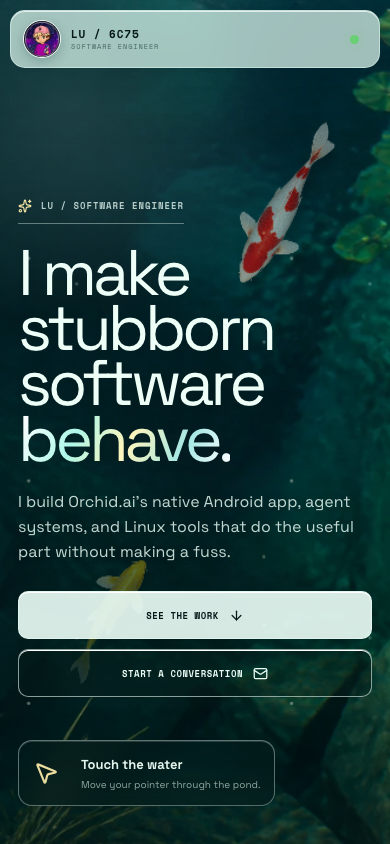
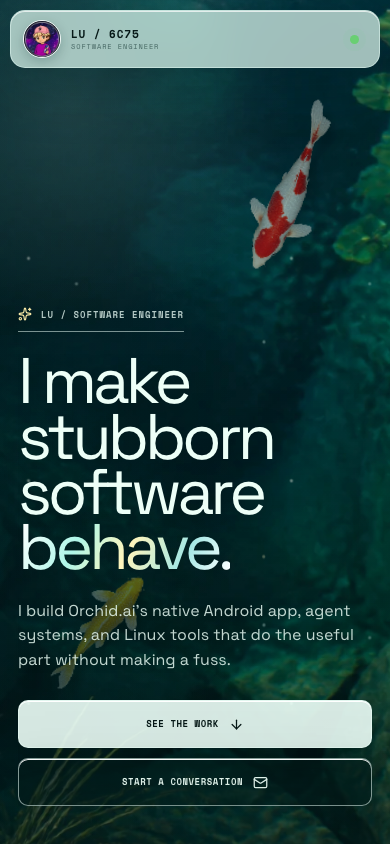
fix: calm the portfolio pond motion

diff --git a/components/concepts/signal-desk/signal-desk.tsx b/components/concepts/signal-desk/signal-desk.tsx
@@ -10,7 +10,6 @@ import {
   ArrowUpRight,
   Github,
   Mail,
-  MousePointer2,
   Sparkles,
 } from "lucide-react";
 import { portfolioIdentity, portfolioProjects, type PortfolioProject } from "@/lib/portfolio-content";
@@ -175,8 +174,8 @@ function PondEnvironment({ reduced }: { reduced: boolean }) {
       };
 
       const swimmers = [
-        createFish(kohakuTexture, 124, window.innerWidth * 0.78, window.innerHeight * 0.2, 2.05, 29, 0.6, 0.72),
-        createFish(ogonTexture, 96, window.innerWidth * 0.22, window.innerHeight * 0.76, -0.72, 23, 3.1, 0.56),
+        createFish(kohakuTexture, 124, window.innerWidth * 0.78, window.innerHeight * 0.2, 2.05, 17, 0.6, 0.72),
+        createFish(ogonTexture, 96, window.innerWidth * 0.22, window.innerHeight * 0.76, -0.72, 13, 3.1, 0.56),
       ];
 
       let ripples: PondRipple[] = [];
@@ -246,16 +245,17 @@ function PondEnvironment({ reduced }: { reduced: boolean }) {
       app.ticker.add((ticker) => {
         const now = performance.now();
         const delta = Math.min(ticker.deltaMS / 1000, 0.034);
-        const pointerFresh = now - pointer.time < 1600;
+        const pointerInfluence = Math.max(0, 1 - (now - pointer.time) / 1100);
         let reacting = false;
 
         displacementMap.position.set(
-          window.innerWidth / 2 + Math.sin(now * 0.00034) * 30,
-          window.innerHeight / 2 + Math.cos(now * 0.00028) * 24,
+          window.innerWidth / 2 + Math.sin(now * 0.00021) * 62,
+          window.innerHeight / 2 + Math.cos(now * 0.00017) * 48,
         );
-        const waterEnergy = pointerFresh ? Math.max(0, 1 - (now - pointer.time) / 850) * pointer.energy : 0;
-        water.scale.x = 2.8 + Math.sin(now * 0.0003) * 0.24 + waterEnergy * 0.7;
-        water.scale.y = 2.2 + Math.cos(now * 0.00024) * 0.2 + waterEnergy * 0.55;
+        displacementMap.rotation = Math.sin(now * 0.0001) * 0.016;
+        const waterEnergy = pointerInfluence * pointer.energy;
+        water.scale.x = 7.4 + Math.sin(now * 0.00038) * 0.7 + waterEnergy * 1.6;
+        water.scale.y = 5.8 + Math.cos(now * 0.00031) * 0.55 + waterEnergy * 1.25;
         finger.enabled = waterEnergy > 0.005;
         finger.centerX = pointer.x / window.innerWidth;
         finger.centerY = pointer.y / window.innerHeight;
@@ -264,12 +264,14 @@ function PondEnvironment({ reduced }: { reduced: boolean }) {
 
         for (const swimmer of swimmers) {
           const distance = Math.hypot(swimmer.x - pointer.x, swimmer.y - pointer.y);
-          const fleeing = pointerFresh && distance < 280;
+          const threat = pointerInfluence * Math.max(0, 1 - distance / 230);
+          const fleeing = threat > 0.02;
           reacting ||= fleeing;
-          let desired = swimmer.heading + Math.sin(now * 0.00042 + swimmer.phase) * 0.42;
+          let desired = swimmer.heading + Math.sin(now * 0.0002 + swimmer.phase) * 0.24;
 
           if (fleeing) {
-            desired = Math.atan2(swimmer.y - pointer.y, swimmer.x - pointer.x);
+            const away = Math.atan2(swimmer.y - pointer.y, swimmer.x - pointer.x);
+            desired += angleDelta(desired, away) * Math.min(1, threat * 1.15);
           } else if (
             swimmer.x < 100 || swimmer.x > window.innerWidth - 100 ||
             swimmer.y < 120 || swimmer.y > window.innerHeight - 120
@@ -277,9 +279,9 @@ function PondEnvironment({ reduced }: { reduced: boolean }) {
             desired = Math.atan2(window.innerHeight / 2 - swimmer.y, window.innerWidth / 2 - swimmer.x);
           }
 
-          swimmer.heading += angleDelta(swimmer.heading, desired) * Math.min(1, delta * (fleeing ? 5.8 : 0.72));
-          const targetSpeed = swimmer.cruise * (fleeing ? 2.65 : 1);
-          swimmer.speed += (targetSpeed - swimmer.speed) * Math.min(1, delta * (fleeing ? 4.8 : 1.2));
+          swimmer.heading += angleDelta(swimmer.heading, desired) * Math.min(1, delta * (0.42 + threat * 1.5));
+          const targetSpeed = swimmer.cruise * (1 + threat * 0.55);
+          swimmer.speed += (targetSpeed - swimmer.speed) * Math.min(1, delta * (0.7 + threat * 1.1));
           swimmer.x += Math.cos(swimmer.heading) * swimmer.speed * delta;
           swimmer.y += Math.sin(swimmer.heading) * swimmer.speed * delta;
           swimmer.x = Math.max(swimmer.clearance, Math.min(window.innerWidth - swimmer.clearance, swimmer.x));
@@ -293,7 +295,7 @@ function PondEnvironment({ reduced }: { reduced: boolean }) {
           const effort = swimmer.speed / swimmer.cruise;
           for (let index = 0; index < vertices.length; index += 2) {
             const tail = swimmer.baseVertices[index + 1] / swimmer.textureHeight;
-            vertices[index] = swimmer.baseVertices[index] + Math.sin(now * 0.007 * effort + swimmer.phase + tail * 3.2) * Math.pow(tail, 2.35) * 30;
+            vertices[index] = swimmer.baseVertices[index] + Math.sin(now * 0.0027 * effort + swimmer.phase + tail * 3.2) * Math.pow(tail, 2.4) * 21;
           }
           swimmer.buffer.update();
 
@@ -584,16 +586,6 @@ export function SignalDesk() {
               <a href={portfolioIdentity.email}>Start a conversation <Mail aria-hidden="true" /></a>
             </motion.div>
           </motion.div>
-
-          <motion.aside
-            className={styles.pondNote}
-            initial={{ opacity: 0, scale: 0.96 }}
-            animate={{ opacity: 1, scale: 1 }}
-            transition={{ duration: reducedMotion ? 0 : 0.48, delay: reducedMotion ? 0 : 0.43, ease: EASE_OUT }}
-          >
-            <MousePointer2 aria-hidden="true" />
-            <span><strong>Touch the water</strong><small>Move your pointer through the pond.</small></span>
-          </motion.aside>
         </section>
 
         <ProjectExplorer reduced={reducedMotion} />

diff --git a/components/concepts/signal-desk/signal-desk.module.css b/components/concepts/signal-desk/signal-desk.module.css
@@ -18,6 +18,8 @@
   background: var(--ink);
   font-family: var(--font-space-grotesk), "Space Grotesk", sans-serif;
   isolation: isolate;
+  -webkit-user-select: none;
+  user-select: none;
 }
 
 .page :where(a, button) {
@@ -247,8 +249,7 @@
   position: relative;
   z-index: 5;
   display: grid;
-  grid-template-columns: minmax(0, 920px) minmax(230px, 1fr);
-  gap: 7vw;
+  grid-template-columns: minmax(0, 920px);
   align-items: end;
   width: min(calc(100% - 64px), 1380px);
   min-height: 100svh;
@@ -362,44 +363,6 @@
   width: 15px;
   height: 15px;
   transition: transform 150ms var(--ease-out);
-}
-
-.pondNote {
-  display: grid;
-  grid-template-columns: 36px 1fr;
-  gap: 12px;
-  align-items: center;
-  align-self: end;
-  justify-self: end;
-  width: min(100%, 290px);
-  margin-bottom: 10px;
-  padding: 14px;
-  border: 1px solid rgba(236, 255, 247, 0.4);
-  border-radius: 14px;
-  background: rgba(4, 28, 27, 0.58);
-  box-shadow: 0 18px 50px rgba(0, 24, 23, 0.24), inset 0 1px 0 rgba(255, 255, 255, 0.16);
-  backdrop-filter: blur(13px);
-}
-
-.pondNote > svg {
-  width: 26px;
-  height: 26px;
-  color: var(--sun);
-}
-
-.pondNote span {
-  display: grid;
-  gap: 3px;
-}
-
-.pondNote strong {
-  font-size: 13px;
-}
-
-.pondNote small {
-  color: var(--muted);
-  font-size: 10px;
-  line-height: 1.35;
 }
 
 .workSection {
@@ -1005,11 +968,6 @@
 }
 
 @media (max-width: 1080px) {
-  .hero {
-    grid-template-columns: minmax(0, 1fr) 250px;
-    gap: 4vw;
-  }
-
   .projectExplorer {
     grid-template-columns: 220px minmax(0, 1fr);
   }
@@ -1081,13 +1039,6 @@
 
   .heroActions a {
     width: 100%;
-  }
-
-  .pondNote {
-    align-self: flex-start;
-    justify-self: auto;
-    width: auto;
-    margin: 27px 0 0;
   }
 
   .koiOne {

diff --git a/tests/browser/browser_test.py b/tests/browser/browser_test.py
@@ -282,6 +282,12 @@ class PortfolioTests(BrowserTestCase):
         page.on("pageerror", lambda error: page_errors.append(str(error)))
         page.goto(self.base_url, wait_until="networkidle")
 
+        self.assertEqual(
+            page.evaluate("getComputedStyle(document.querySelector('#top')).userSelect"),
+            "none",
+        )
+        self.assertEqual(page.get_by_text("Touch the water", exact=True).count(), 0)
+
         pond = page.locator("[data-pixi-state]")
         page.wait_for_function(
             """() => {
